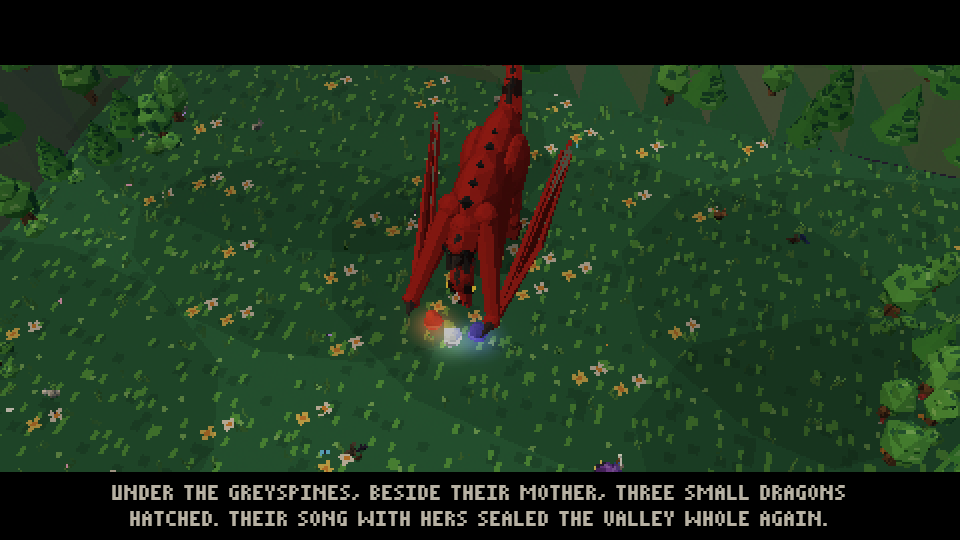
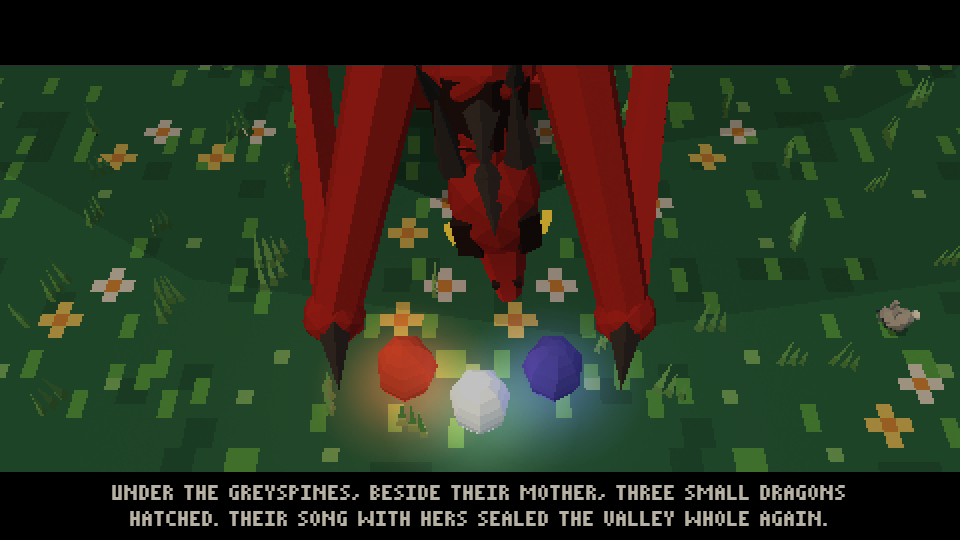
The egg picture comes in close: just their mother's face, head right down over the three eggs, red, white and indigo, glowing in the grass between her claws

diff --git a/README.md b/README.md
@@ -268,7 +268,7 @@ What's behind it is for you to find out.
 
 The credits aren't a list of names. They're the story of what happened after, shot by shot, and which shots you get depends on what you did in your run.
 
-![Their mother over the three eggs, just before they hatch](docs/manual/eggs.png)
+![Their mother's face, right down over the three eggs, just before they hatch](docs/manual/eggs.png)
 
 ![Three small dragons hatch under the Greyspines](docs/manual/hatch.gif)
 
